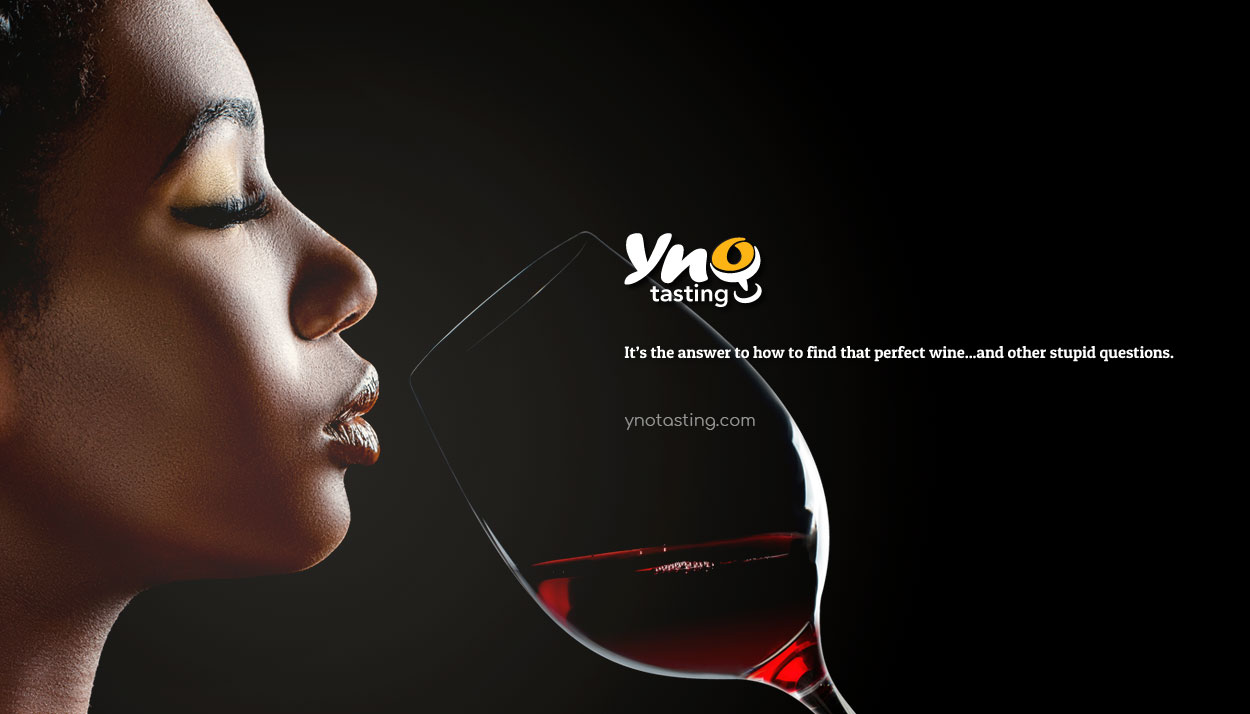
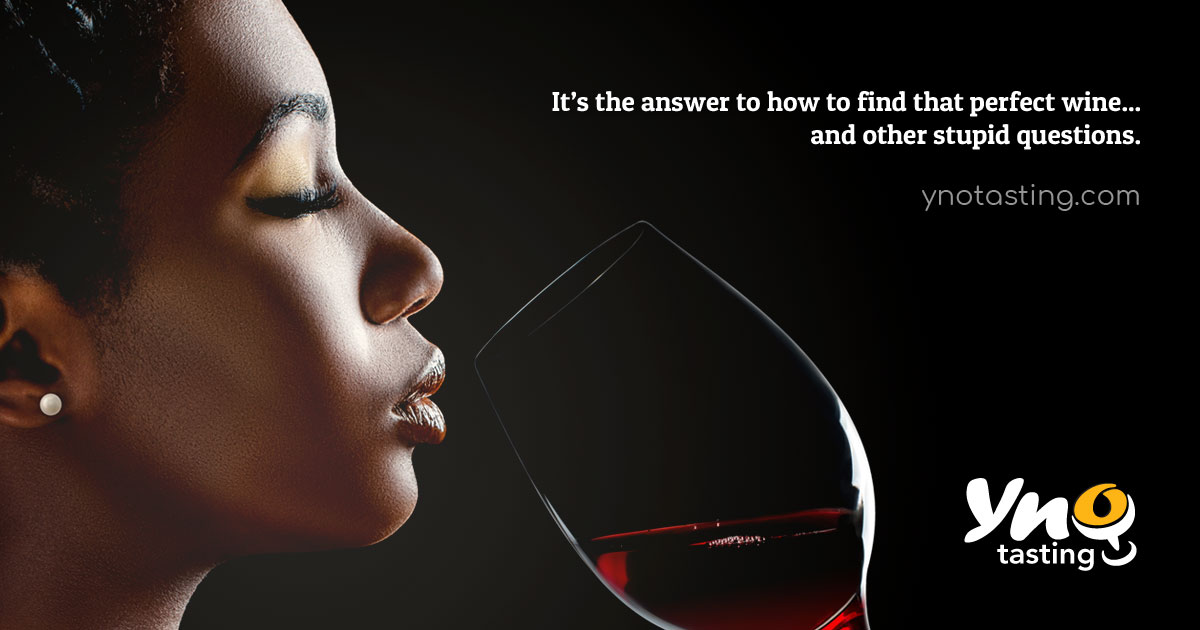
tweaked social prevew image

diff --git a/public/index.html b/public/index.html
@@ -2,6 +2,6 @@
       function gtag(){dataLayer.push(arguments);}
       gtag('js', new Date());
 
-      gtag('config', 'UA-36033566-3');</script><meta charset=utf-8><title>Yno Tasting</title><meta name=description content="Yno Tasting is a wine tasting event app. Use Yno to plan a blind tasting event, invite guests, rate and comment on wines, and store results. It's an easy, fun, and informative to enjoy wines you like with friends."><meta name=viewport content="width=device-width,initial-scale=1,maximum-scale=1"><meta property=og:title content="Yno Tasting"><meta property=og:url content=https://ynotasting.com><meta property=og:type content=website><meta property=og:description content="Yno Tasting is a wine tasting event app. Use Yno to plan a blind tasting event, invite guests, rate and comment on wines, and store results. It's an easy, fun, and informative to enjoy wines you like with friends."><meta property=og:image content=https://ynotasting.com/assets/images/ynotasting-social-meme.jpg><meta property=og:image:type content=image/jpg><meta property=og:image:width content=1500><meta property=og:image:height content=502><meta name=twitter:card content=summary><meta name=twitter:title content="Yno Tasting"><meta name=twitter:description content="Yno Tasting is a wine tasting event app. Use Yno to plan a blind tasting event, invite guests, rate and comment on wines, and store results. It's an easy, fun, and informative to enjoy wines you like with friends."><meta name=twitter:image content=https://ynotasting.com/assets/images/ynotasting-social-meme.jpg><link rel=apple-touch-icon sizes=57x57 href=https://ynotasting.com/assets/favicons/apple-touch-icon-57x57.png><link rel=apple-touch-icon sizes=60x60 href=https://ynotasting.com/assets/favicons/apple-touch-icon-60x60.png><link rel=apple-touch-icon sizes=72x72 href=https://ynotasting.com/assets/favicons/apple-touch-icon-72x72.png><link rel=apple-touch-icon sizes=76x76 href=https://ynotasting.com/assets/favicons/apple-touch-icon-76x76.png><link rel=apple-touch-icon sizes=114x114 href=https://ynotasting.com/assets/favicons/apple-touch-icon-114x114.png><link rel=apple-touch-icon sizes=120x120 href=https://ynotasting.com/assets/favicons/apple-touch-icon-120x120.png><link rel=apple-touch-icon sizes=144x144 href=https://ynotasting.com/assets/favicons/apple-touch-icon-144x144.png><link rel=apple-touch-icon sizes=152x152 href=https://ynotasting.com/assets/favicons/apple-touch-icon-152x152.png><link rel=apple-touch-icon sizes=180x180 href=https://ynotasting.com/assets/favicons/apple-touch-icon-180x180.png><link rel=icon type=image/png href=https://ynotasting.com/assets/favicons/favicon-32x32.png sizes=32x32><link rel=icon type=image/png href=https://ynotasting.com/assets/favicons/favicon-194x194.png sizes=194x194><link rel=icon type=image/png href=https://ynotasting.com/assets/favicons/favicon-96x96.png sizes=96x96><link rel=icon type=image/png href=https://ynotasting.com/assets/favicons/android-chrome-192x192.png sizes=192x192><link rel=icon type=image/png href=https://ynotasting.com/assets/favicons/favicon-16x16.png sizes=16x16><link rel=manifest href=https://ynotasting.com/assets/favicons/manifest.json><link rel="shortcut icon" href=https://ynotasting.com/assets/favicons/favicon.ico><base href=/ ><link rel=stylesheet href=https://use.fontawesome.com/releases/v5.0.10/css/all.css integrity=sha384-+d0P83n9kaQMCwj8F4RJB66tzIwOKmrdb46+porD/OvrJ+37WqIM7UoBtwHO6Nlg crossorigin=anonymous><!-- Place favicon.ico and apple-touch-icon.png in the root directory --><link rel=stylesheet href=styles/vendor-ca8b43f2cc.css><link rel=stylesheet href=styles/app-7ce4d5475a.css></head><body ng-app=ynoTasting ng-strict-di><!--[if lt IE 10]>
+      gtag('config', 'UA-36033566-3');</script><meta charset=utf-8><title>Yno Tasting</title><meta name=description content="Yno Tasting is a wine tasting event app. Use Yno to plan a blind tasting event, invite guests, rate and comment on wines, and store results. It's an easy, fun, and informative to enjoy wines you like with friends."><meta name=viewport content="width=device-width,initial-scale=1,maximum-scale=1"><meta property=og:title content="Yno Tasting"><meta property=og:url content=https://ynotasting.com><meta property=og:type content=website><meta property=og:description content="Yno Tasting is a wine tasting event app. Use Yno to plan a blind tasting event, invite guests, rate and comment on wines, and store results. It's an easy, fun, and informative to enjoy wines you like with friends."><meta property=og:image content=https://ynotasting.com/assets/images/ynotasting-social-meme.jpg><meta property=og:image:type content=image/jpg><meta property=og:image:width content=1500><meta property=og:image:height content=502><meta name=twitter:card content=summary><meta name=twitter:title content="Yno Tasting"><meta name=twitter:description content="Yno Tasting is a wine tasting event app. Use Yno to plan a blind tasting event, invite guests, rate and comment on wines, and store results. It's an easy, fun, and informative to enjoy wines you like with friends."><meta name=twitter:image content=https://ynotasting.com/assets/images/ynotasting-social-meme.jpg><link rel=apple-touch-icon sizes=57x57 href=https://ynotasting.com/assets/favicons/apple-touch-icon-57x57.png><link rel=apple-touch-icon sizes=60x60 href=https://ynotasting.com/assets/favicons/apple-touch-icon-60x60.png><link rel=apple-touch-icon sizes=72x72 href=https://ynotasting.com/assets/favicons/apple-touch-icon-72x72.png><link rel=apple-touch-icon sizes=76x76 href=https://ynotasting.com/assets/favicons/apple-touch-icon-76x76.png><link rel=apple-touch-icon sizes=114x114 href=https://ynotasting.com/assets/favicons/apple-touch-icon-114x114.png><link rel=apple-touch-icon sizes=120x120 href=https://ynotasting.com/assets/favicons/apple-touch-icon-120x120.png><link rel=apple-touch-icon sizes=144x144 href=https://ynotasting.com/assets/favicons/apple-touch-icon-144x144.png><link rel=apple-touch-icon sizes=152x152 href=https://ynotasting.com/assets/favicons/apple-touch-icon-152x152.png><link rel=apple-touch-icon sizes=180x180 href=https://ynotasting.com/assets/favicons/apple-touch-icon-180x180.png><link rel=icon type=image/png href=https://ynotasting.com/assets/favicons/favicon-32x32.png sizes=32x32><link rel=icon type=image/png href=https://ynotasting.com/assets/favicons/favicon-194x194.png sizes=194x194><link rel=icon type=image/png href=https://ynotasting.com/assets/favicons/favicon-96x96.png sizes=96x96><link rel=icon type=image/png href=https://ynotasting.com/assets/favicons/android-chrome-192x192.png sizes=192x192><link rel=icon type=image/png href=https://ynotasting.com/assets/favicons/favicon-16x16.png sizes=16x16><link rel=manifest href=https://ynotasting.com/assets/favicons/manifest.json><link rel="shortcut icon" href=https://ynotasting.com/assets/favicons/favicon.ico><base href=/ ><link rel=stylesheet href=https://use.fontawesome.com/releases/v5.0.10/css/all.css integrity=sha384-+d0P83n9kaQMCwj8F4RJB66tzIwOKmrdb46+porD/OvrJ+37WqIM7UoBtwHO6Nlg crossorigin=anonymous><!-- Place favicon.ico and apple-touch-icon.png in the root directory --><link rel=stylesheet href=styles/vendor-ca8b43f2cc.css><link rel=stylesheet href=styles/app-93b587c124.css></head><body ng-app=ynoTasting ng-strict-di><!--[if lt IE 10]>
       <p class="browsehappy">You are using an <strong>outdated</strong> browser. Please <a href="http://browsehappy.com/">upgrade your browser</a> to improve your experience.</p>
     <![endif]--><app></app><script src=scripts/vendor-c94d4c00f6.js></script><script src=scripts/app-e26d374833.js></script></body></html>
